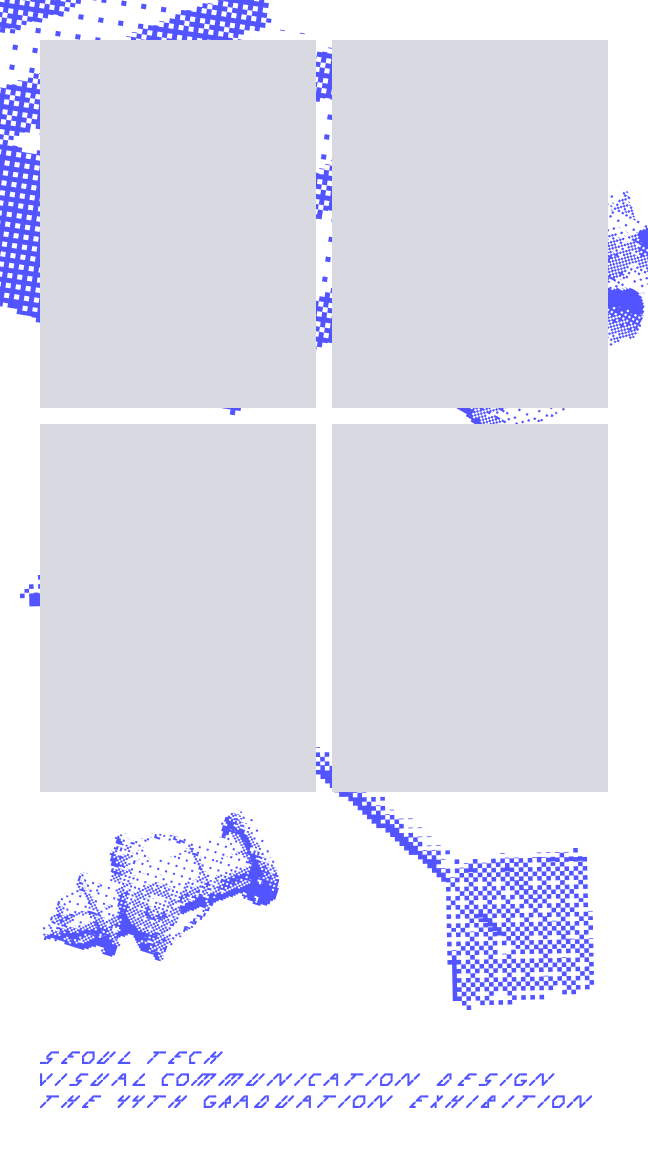
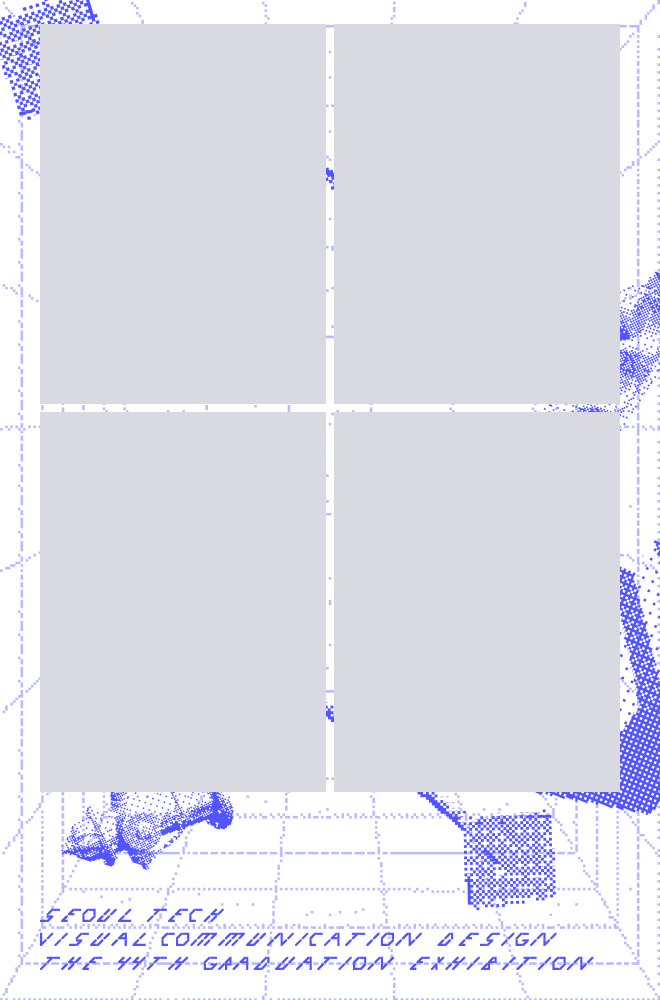
Photobooth: new frame templates (660x1000) from Figma 433-2068; subtle dither on CCD/FILM 3D cameras

Changed region(s): [[0.0, 0.0, 1.0, 1.0]]

diff --git a/index.html b/index.html
@@ -14,7 +14,7 @@
 <link rel="preconnect" href="https://fonts.gstatic.com" crossorigin>
 <link rel="preload" as="style" href="https://fonts.googleapis.com/css2?family=Noto+Sans+KR:wght@300;400;500;700;900&display=swap" onload="this.rel='stylesheet'">
 <noscript><link rel="stylesheet" href="https://fonts.googleapis.com/css2?family=Noto+Sans+KR:wght@300;400;500;700;900&display=swap"></noscript>
-<link rel="stylesheet" href="style.css?v=240">
+<link rel="stylesheet" href="style.css?v=241">
 </head>
 <body class="theme-light">
 
@@ -453,7 +453,7 @@
 </div>
 
 <script src="works-data.js?v=6"></script>
-<script src="main.js?v=146"></script>
+<script src="main.js?v=147"></script>
 
 <!-- 3D 인터랙티브 히어로 (Three.js — 로컬 번들, CDN 의존 없음) -->
 <script src="models.js?v=1"></script>
@@ -461,6 +461,6 @@
 <script type="importmap">
 {"imports":{"three":"./vendor/three/three.module.js","three/addons/":"./vendor/three/addons/"}}
 </script>
-<script type="module" src="hero3d.js?v=30"></script>
+<script type="module" src="hero3d.js?v=31"></script>
 </body>
 </html>

diff --git a/hero3d.js b/hero3d.js
@@ -355,7 +355,12 @@ export function initCamObj(canvas, key, look, o = {}) {
         } else if (uLook == 1) {     // FILM: 바랜 블랙, 따뜻한 하이라이트, 움직이는 그레인
           col = mix(vec3(0.12,0.11,0.11), vec3(0.88,0.85,0.82), smoothstep(0.04, 0.96, l)); // 쿨 브라운
           col += (rnd(floor(gl_FragCoord.xy / 1.5) + fract(uTime * 7.0)) - 0.5) * 0.18;
-        } else {                     // PIXEL: 파랑 디더
+        }
+        if (uLook < 2) {             // CCD·FILM에도 아주 약한 디더 (PIXEL과 톤을 맞춤): 2px 베이어로 7단계 양자화
+          float th = bayer(floor(gl_FragCoord.xy / 2.0)) - 0.5;
+          col = floor(col * 7.0 + 0.5 + th * 0.9) / 7.0;
+        }
+        if (uLook == 2) {            // PIXEL: 파랑 디더
           vec2 b = floor(gl_FragCoord.xy / 3.0);                     // 촘촘한 디더
           float v = clamp((1.0 - l) * 1.5 - 0.05, 0.0, 1.0);
           if (v < bayer(b)) col = vec3(1.0); else col = vec3(0.322,0.329,1.0);

diff --git a/style.css b/style.css
@@ -1354,3 +1354,11 @@ a,button,[onclick],label,summary,.wk-bt,.wk-bt *,[role=button]{cursor:var(--cur-
 #pb-overlay .is-sel{outline:2px dashed #C0C0FF;outline-offset:2px}
 #pb-overlay .pb-del{position:absolute;top:-12px;right:-12px;width:24px;height:24px;padding:0;border:2px solid #fff;background:var(--blue);color:#fff;font-family:var(--sg);font-weight:700;font-size:16px;line-height:1;display:none;align-items:center;justify-content:center;z-index:3;pointer-events:all}
 #pb-overlay .is-sel .pb-del{display:flex}
+/* 프레임 v2 (Figma 433-2068 수정본): 660×1000 비율, 사진 칸 위치 */
+.pb-strip{aspect-ratio:660/1000}
+.pb-strip .booth-frame{width:43.33%;height:38%}
+#booth-frame-0{left:6.06%;top:2.4%}
+#booth-frame-1{left:50.61%;top:2.4%}
+#booth-frame-2{left:6.06%;top:41.2%}
+#booth-frame-3{left:50.61%;top:41.2%}
+@media (max-width:920px){.pb-edit .pb-strip{width:min(64vw, calc((100vh - 43px - 360px) * 660 / 1000))}}

diff --git a/main.js b/main.js
@@ -1148,7 +1148,7 @@ function boothSetFrame(el) {
 }
 /* 프레임 = Figma 433-2068 템플릿 이미지 (1~3 단색, 4~6 오브제). 사진 4칸은 템플릿의 회색 칸 위에 놓임 */
 var _frameImg = new Image();
-function boothFrameSrc() { var n = /^[1-6]$/.test(String(_frameColor)) ? _frameColor : '1'; return 'images/booth/frames/frame' + n + '.png'; }
+function boothFrameSrc() { var n = /^[1-6]$/.test(String(_frameColor)) ? _frameColor : '1'; return 'images/booth/frames/frame' + n + '.png?v=2'; }
 function boothApplyFrame() {
   var strip = document.getElementById('booth-strip');
   var src = boothFrameSrc();
